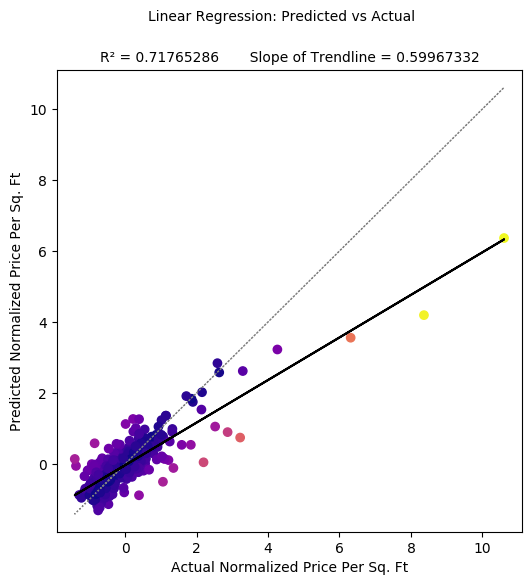
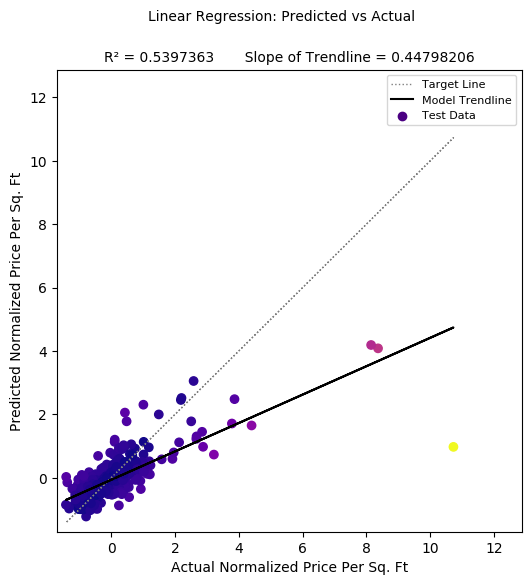
update linear and lasso

diff --git a/index.md b/index.md
@@ -38,9 +38,16 @@ R<sup>2</sup> is a stastical measure representing the the extent to which the va
 To analyze the effectiveness of the regression models, we have collected the R<sup>2</sup> values of 1000 models of each type in order to negate variance created by the use of different train/test splits of the collected data.
 
 #### Linear Regression
-<img src="images/linearreg.png" alt="drawing" width="410"/>
+We started by using a simple linear regression model on our data.
+On average the linear model was able to achieve an average R<sup>2</sup> value of **0.6004295384885548** (with standard deviation: 0.07686185880285384).
 
-#### Lasso Regression
+We also used this linear model to test how effective our feature reduction worked on our data.
+When using features selected by our feed forward feature reduction process the average R<sup>2</sup> value was **0.5975599545286328** (with standard deviation: 0.07512821208305448).
+This shows that in many cases the feature reduction actually ***decreases*** accuracy.
+
+<img src="images/linearreg.png" alt="drawing" width="410"/>
+<img src="images/linearForward.png" alt="drawing" width="410"/>
+
 
 #### Ridge Regression
 The average R<sup>2</sup> value for models using raw data was **0.60133236** with a standard deviation of **0.07622105**
@@ -53,6 +60,23 @@ The R<sup>2</sup> value of approximately **0.60** shows that over half of the va
 <img src="images/forward_selection_ridge_regression.png" alt="drawing" width="410"/>
 
 With the reduction of features using forward selection, a hope was to see an increase in the value of R<sup>2</sup> for the model. As the values for R<sup>2</sup> for each model were within the standard deviations from the mean, there is negligble difference in the determination coefficient using forward selection features. While this aspect was not improved, an analysis of the **Predicted Normalized Price Per Sq. Ft** versus the **Actual Normalized Price Per Sq. Ft** for each model shows a tendency to underestimate when making predictions. A trendline with a slope of 1 shows neither a tendency to underestimate or overestimate. The use of forward selection features increased the slope of the trendline from **0.57657903** to **0.755802** showing significant reduction of the tendency to underestimate.
+
+
+#### Lasso Regression
+We implemented a lasso regression model for our data.
+We found that with a max R<sup>2</sup> value of **0.65810032** lasso regression is only
+somewhat better than linear regression, and at best as good as ridge regression.
+
+The optimal alpha value we found for lasso regression appears to be around **0.01**.
+
+<img src="images/lasso_alpha_1e-08.png" alt="drawing" width="250"/>
+<img src="images/lasso_alpha_0.0001.png" alt="drawing" width="250"/>
+<img src="images/lasso_alpha_0.001.png" alt="drawing" width="250"/>
+
+<img src="images/lasso_alpha_0.01.png" alt="drawing" width="250"/>
+<img src="images/lasso_alpha_0.1.png" alt="drawing" width="250"/>
+<img src="images/lasso_alpha_0.5.png" alt="drawing" width="250"/>
+
 
 #### GLMs
 <img src="images/glm.png" alt="drawing" width="410"/>
